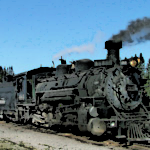
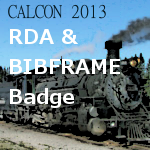
Added quiz to bibframe history, added badge infrastructure w/page

diff --git a/templates/history-quiz.html b/templates/history-quiz.html
@@ -1,0 +1,61 @@
+<form id="badge-quiz"> 
+<input type="hidden" name="slide" value="history">
+{# START History BIBFRAME Quiz #}
+ <div class="col-md-6">
+  <div class="panel panel-primary">
+  <div class="panel-heading">
+    <h3 class="panel-title">Badge Quiz </h2>
+  </div>
+  <div class="panel-body">
+   {# START Q1 #}
+   <div>
+   <label>What year did the Library of Congress announce the 
+          Bibliographic Framework Initiative?</label>  
+    <div data-bind="foreach: questionOneItems">
+    <div class="radio">    
+     <label>
+       <input type="radio" name="q1" data-bind="attr: { value: id },
+                                                checked: $root.selected"  >
+       <span data-bind="text: name"></span>
+      </label>
+     </div>  
+   {# END Q1 #}
+   </div>
+   {# START Q2 #}
+   <div>
+    <label>Which of the following influenced BIBFRAME design?</label>
+    <div data-bind="foreach: questionTwoItems">
+     <div class="checkbox">
+      <label>
+       <input type="checkbox" name="q2" data-bind="attr: { value:id }, 
+                                                   checked: $root.selected">
+       <span data-bind="text: name"></span>
+      </label>
+     </div> 
+    </div>
+   {# END Q2 #}
+   </div> 
+   {# START Q3 #}
+   <div>
+    <label>True or False; BIBFRAME is based on LinkedData</label>
+    <div data-bind="foreach: questionThreeItems">
+     <label class="radio-inline" >
+      <input type="radio" name="q3" data-bind="attr: { value:id },
+                                               checked: $root.selected">
+      <span data-bind="text: name"></span>
+     </label>
+    </div>
+  {# END Q3 #}
+  </div>
+  <div class="btn-group">
+    <a href="#" 
+       class="btn btn-danger btn-sm"
+       data-bind="click: gradeQuiz">Grade</a>
+    <button type="reset"
+       class="btn btn-warning btn-sm">Reset</button>
+  </div>
+
+  </div>
+ {# END History BIBFRAME Quiz #}
+ </div>
+</form>

diff --git a/templates/history.html b/templates/history.html
@@ -6,6 +6,56 @@
 {% include 'slide-nav.html' %}
 <div class="row"> <div class="col-md-12 jumbotron"><h1>History of BIBFRAME</h1></div>
 </div>
+<hr>
+<div class="row">
+ {% include 'history-quiz.html' %}
+{# START History Video Lecture #}
+ <div class="col-md-8">
+
+ {# END History Video Lecture #}
+ </div>
+</div>
 {% endblock %}
 
-{% block more_js %}{% endblock %}
+{% block more_js %}
+<script>
+function HistoryQuizViewModel() {
+  var self = this; 
+
+  self.questionOneItems = [
+    { id: 1, name: "2007", selected: false},
+    { id: 2, name: "1999", selected: false},
+    { id: 3, name: "2011", selected: false},
+    { id: 4, name: "2013", selected: false}
+  ];
+  self.questionTwoItems = [
+    { id: 1, name: 'FRBR', selected: false},
+    { id: 2, name: 'MARC21', selected: false},
+    { id: 3, name: 'Schema.org', selected: false},
+    { id: 4, name: 'MODS', selected: false}
+  ];
+  self.questionThreeItems = [
+    { id: 1, name: 'True', selected:false },
+    { id: 0, name: 'False', selected:false }
+
+  ];
+
+  self.gradeQuiz = function() {
+    $.ajax({
+      type: 'POST',
+       url: '/calcon-2013-session/grade',
+       data: $('#badge-quiz').serialize(),
+       success: function(response) {
+         if(response['error']) {
+           alert("Error " + response['error'])
+         } else {
+          alert("Graded Quiz " + response['score'] + " out of 3");
+         }
+       }
+    });
+  }
+}
+
+ko.applyBindings(new HistoryQuizViewModel());
+</script>
+{% endblock %}

diff --git a/templates/badge.html b/templates/badge.html
@@ -1,0 +1,37 @@
+{% extends 'layout.html' %}
+
+{% block body %}
+<div class="row">
+ <div class="col-md-12 well">
+  <h1>Earn your Open Badge for this Session!</h1>
+  <div class="row">
+   <div class="col-md-3">
+    <img src="/static/img/bibframe-rda-badge.png" class="img-thumbnail"></img>
+   </div>
+   <div class="col-md-8">
+     <ol>
+       <h2><li>Create an Mozilla Open Badge Backpack Account</li></h2>
+       <p class="lead">
+        Create an Mozilla Open Badge Backpack Account 
+        <a href="http://backpack.openbadges.org/backpack/login">Backpack Account</a>
+       </p>
+       <h2><li>Register your E-mail</li></h2>
+       <div class="alert alert-info">
+        <form class="form-inline"> 
+         <div class="form-group">
+           <label for="email_address">Email address*</label>
+           <input type="email" class="form-control" id="email_address"></input>
+         </div>
+         <div class="form-group">
+          <button type="submit" class="btn btn-default">Sign-up</button>
+         </div>
+        </form>
+       </div>
+       <h2><li>Fulfill Badge Critera</li></h2>
+
+     </ol>
+   </div>
+  </div>
+ </div>
+</div>
+{% endblock %}

diff --git a/templates/index.html b/templates/index.html
@@ -20,9 +20,11 @@
        <span class="glyphicon glyphicon-play-circle"></span>
      </a>
    </p>
-    <p><a class="btn btn-lg btn-info" href="#"><img class="img-thumbnail"
-                                                    src="/static/img/bibframe-rda-badge.png" 
-                                                    style="width: 48px; height: 48px" > Earn your Open Badge!</a></p>
+    <p><a class="btn btn-lg btn-info" 
+        href="/calcon-2013-session/badge.html">
+         <img class="img-thumbnail"
+              src="/static/img/bibframe-rda-badge.png" 
+              style="width: 48px; height: 48px" > Earn your Open Badge!</a></p>
 </div>
 
 <div class="row marketing">

diff --git a/templates/header.html b/templates/header.html
@@ -17,7 +17,7 @@
   <li class="dropdown{% if category == 'addendum' %} active{% endif %}">
    <a href="#" class="dropdown-toggle" data-toggle="dropdown">Addendum<b class="caret"></b></a>
     <ul class="dropdown-menu"> 
-     <li><a href="/calcon-2013-session/open-badge">Open Badge</a></li>
+     <li><a href="/calcon-2013-session/badge.html">Open Badge</a></li>
      <li><a href="/calcon-2013-session/glossary.html">Glossary</a></li>
      <li><a href="/calcon-2013-session/resources.html">Resources</a></li>
      <li class="divider"></li>

diff --git a/templates/layout.html b/templates/layout.html
@@ -76,6 +76,8 @@
     <!-- Placed at the end of the document so the pages load faster -->
     <script src="/static/js/jquery.js"></script>
     <script src="/static/js/bootstrap.min.js"></script>
+    <script src="/static/js/knockout.js"></script>
+
     {% block more_js %}{% endblock %}
   </body>
 </html>

diff --git a/web.py b/web.py
@@ -1,7 +1,14 @@
 __author__ = "Jeremy Nelson"
 
+import json
+
 from flask import Flask, render_template, url_for
+from flask import jsonify, request, session
+
 app = Flask(__name__)
+
+ANSWERS = json.load(open('answers.json', 'rb'))
+app.secret_key = ANSWERS.pop('secret_key')
 
 SLIDES = {'bibframe':[{'name': 'history',
                        'label': 'History of BIBFRAME'},
@@ -26,11 +33,45 @@ SLIDES = {'bibframe':[{'name': 'history',
 
 URL_PREFIX = '/calcon-2013-session'
 
+@app.route('{0}/badge.html'.format(URL_PREFIX))
+def badge():
+    return render_template('badge.html',
+                           category='addendum',
+                           slides=SLIDES)
+
+
 @app.route('{0}/glossary.html'.format(URL_PREFIX))
 def glossary():
     return render_template("glossary.html",
                            category='addendum',
                            slides=SLIDES)
+
+@app.route('{0}/grade'.format(URL_PREFIX),
+           methods = ['POST', 'GET'])
+def grade():
+    score = 0
+    if request.method == 'POST':
+        slide = request.form['slide']
+        if slide in ANSWERS:
+            q1_answer = request.form.getlist('q1')
+            if q1_answer == ANSWERS[slide].get('q1'):
+                score += 1
+            q2_answer = request.form.getlist('q2')
+            if q2_answer == ANSWERS[slide].get('q2'):
+                score += 1
+            q3_answer = request.form.getlist('q3')
+            if q3_answer == ANSWERS[slide].get('q3'):
+                score += 1
+        if slide not in session:
+            session[slide] = score
+            return jsonify({'score': score })
+        else:
+            return jsonify(
+                {'error': 'Quiz for {0} with a score of {1} already exists'.format(
+                    slide,
+                    session[slide])})
+
+                           
 @app.route('{0}/resources.html'.format(URL_PREFIX))
 def resources():
     return render_template("resources.html",
